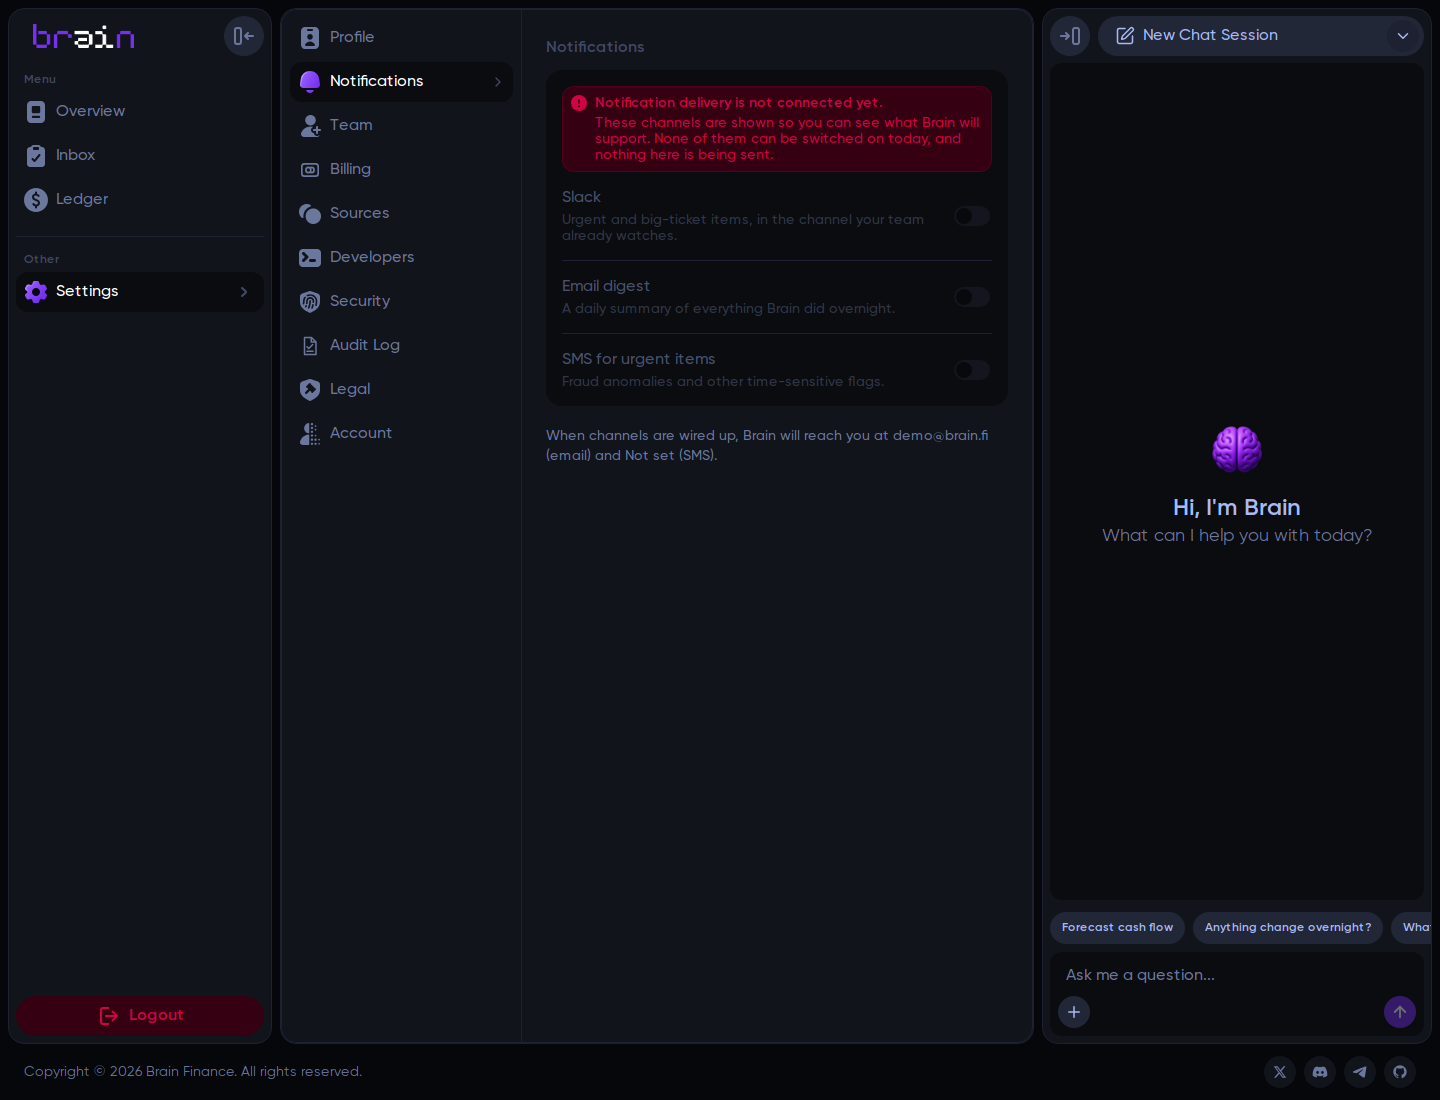
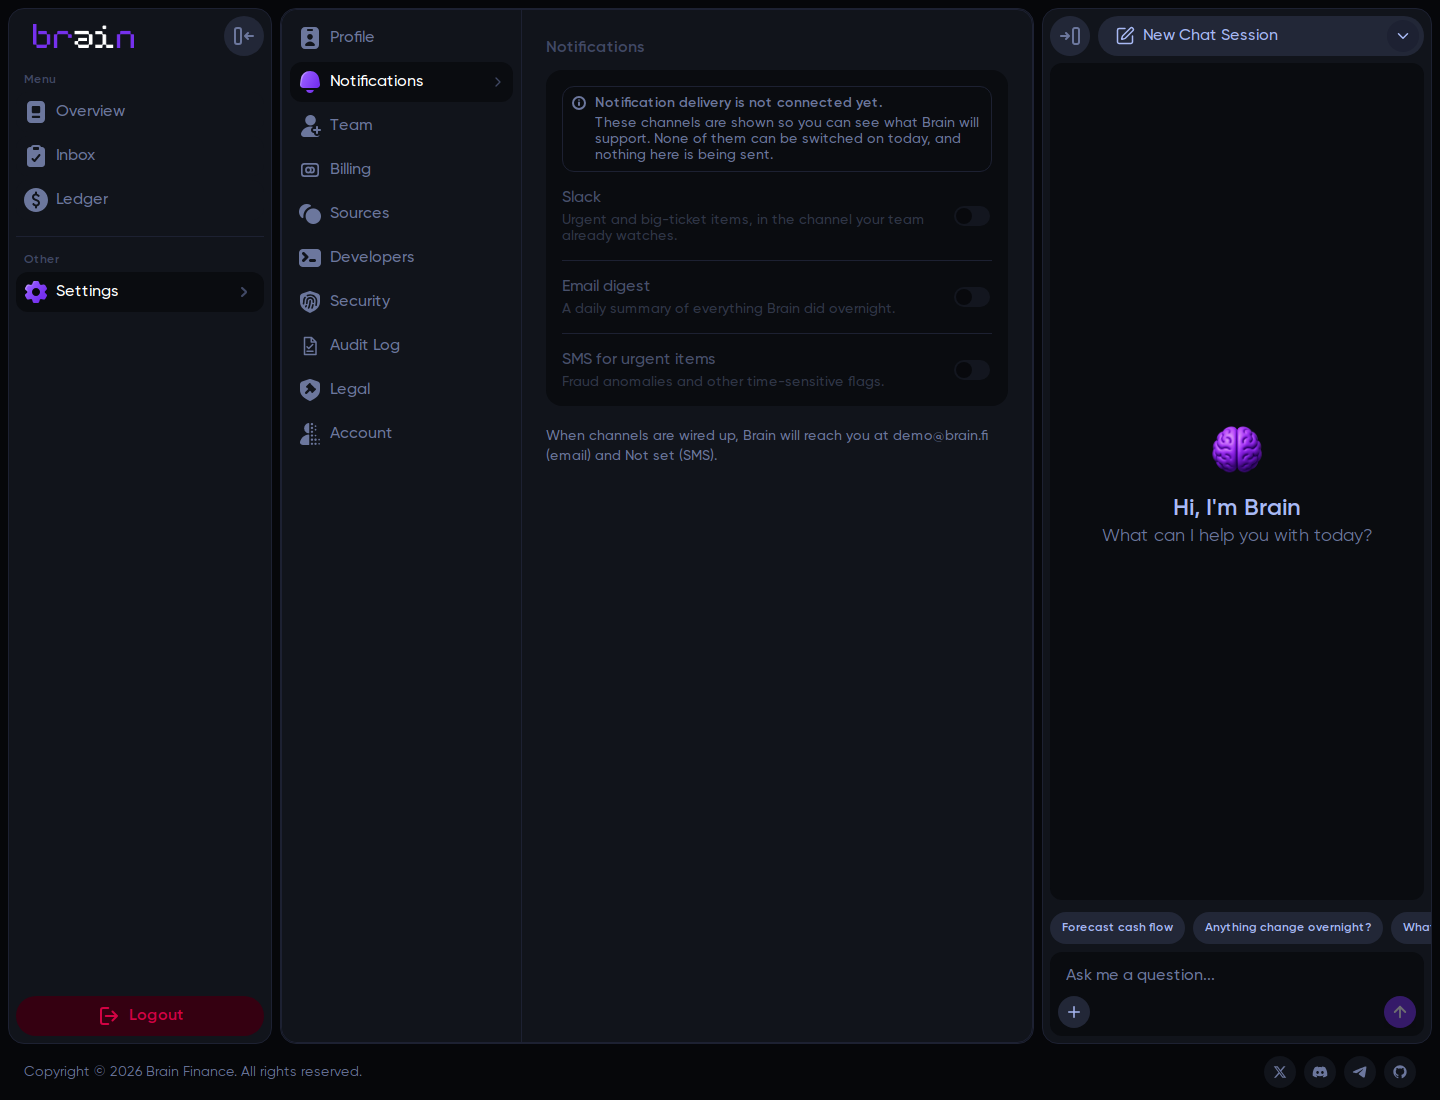
Refactor callout component and update documentation and settings screenshots
Replit-Commit-Author: Agent

Changed region(s): [[0.375, 0.0618, 0.6875, 0.1545]]

diff --git a/client/src/components/Callout.tsx b/client/src/components/Callout.tsx
@@ -65,44 +65,73 @@ export function InfoIcon({
   );
 }
 
-/**
- * The alert frame from Figma.
- *
- * `title` is optional: the Figma node is a single line of text, but two of the
- * existing banners carry a heading over an explanation. Rather than flatten
- * those into one sentence — which would lose the reason the rule paused — the
- * frame stretches to hold both, keeping the node's colours, radius, padding
- * and gap exactly.
- */
-export function AlertCallout({
-  title,
-  children,
-  testId,
-  className = "",
-}: {
+type CalloutProps = {
+  /**
+   * Optional heading. The Figma node is a single line of text, but several real
+   * banners carry a heading over an explanation. Flattening those into one
+   * sentence would lose information — the reason a rule paused, which feed
+   * failed — so the frame stretches to hold both.
+   */
   title?: string;
   children: React.ReactNode;
   testId?: string;
   className?: string;
-}) {
+};
+
+const TONES = {
+  alert: {
+    box: "bg-[#350011] border-[rgba(210,3,68,0.2)]",
+    text: "text-[#d20344]",
+    Icon: () => <AlertIcon />,
+  },
+  muted: {
+    box: "bg-[#0a0c10] border-[#1d2132]",
+    text: "text-[#6c779d]",
+    Icon: () => <InfoIcon color="#6c779d" />,
+  },
+} as const;
+
+function CalloutFrame({
+  tone,
+  title,
+  children,
+  testId,
+  className = "",
+}: CalloutProps & { tone: keyof typeof TONES }) {
+  const { box, text, Icon } = TONES[tone];
   return (
     <div
-      className={`bg-[#350011] border border-[rgba(210,3,68,0.2)] border-solid rounded-[12px] flex items-center p-[8px] w-full ${className}`}
+      className={`${box} border border-solid rounded-[12px] flex items-center p-[8px] w-full ${className}`}
       data-testid={testId}
     >
       <div className="flex flex-1 gap-[8px] items-start min-w-px">
-        <AlertIcon />
+        <Icon />
         <div className="flex flex-1 flex-col justify-center min-w-px gap-[4px]">
           {title && (
-            <p className={`${FONT} font-semibold leading-[16px] text-[#d20344] text-[14px]`}>
-              {title}
-            </p>
+            <p className={`${FONT} font-semibold leading-[16px] ${text} text-[14px]`}>{title}</p>
           )}
-          <div className={`${FONT} font-medium leading-[16px] text-[#d20344] text-[14px] [word-break:break-word]`}>
+          <div className={`${FONT} font-medium leading-[16px] ${text} text-[14px] [word-break:break-word]`}>
             {children}
           </div>
         </div>
       </div>
     </div>
   );
+}
+
+/** Something failed, is incomplete, or needs the user's attention. */
+export function AlertCallout(props: CalloutProps) {
+  return <CalloutFrame tone="alert" {...props} />;
+}
+
+/**
+ * A feature that is not built yet.
+ *
+ * Amber used to cover both this and real warnings, which meant "we haven't
+ * shipped this" and "this broke" looked identical. Crimson would now read as a
+ * failure, so honest not-yet-available notices get the neutral frame instead:
+ * still a callout, but plainly not an error.
+ */
+export function MutedCallout(props: CalloutProps) {
+  return <CalloutFrame tone="muted" {...props} />;
 }

diff --git a/client/src/components/settings/figma/TeamSection.tsx b/client/src/components/settings/figma/TeamSection.tsx
@@ -13,7 +13,7 @@ import { mapApprovalRejection, parseCoreError } from "@/lib/approvalRejections";
 import closeIcon from "@assets/Close_1783293571882.png";
 import memberIcon from "@assets/member_1783635675512.png";
 import arrowButton from "@assets/Button_1783635877872.png";
-import { AlertCallout } from "@/components/Callout";
+import { AlertCallout, MutedCallout } from "@/components/Callout";
 import {
   ROLE_LABELS,
   envelopeLine,
@@ -515,14 +515,14 @@ export default function TeamSection() {
         </div>
 
         <div className="bg-[#0a0c10] rounded-[16px] p-[16px] flex flex-col gap-[16px] w-full">
-          <AlertCallout
+          <MutedCallout
             title="Escalation timers are not active."
             testId="text-escalation-unavailable"
           >
             Brain is propose-only: if the primary approver does not act, nothing ships
             and nothing is escalated. Backup-approver marks are recorded in this
             browser only, so no reminder is sent to anyone today.
-          </AlertCallout>
+          </MutedCallout>
 
           {[
             {

diff --git a/client/src/components/settings/figma/NotificationsSection.tsx b/client/src/components/settings/figma/NotificationsSection.tsx
@@ -1,6 +1,6 @@
 import { useUserContact } from "@/lib/userContact";
 import { Switch } from "./FigmaPrimitives";
-import { AlertCallout } from "@/components/Callout";
+import { AlertCallout, MutedCallout } from "@/components/Callout";
 
 /* Settings → Notifications.
  *
@@ -53,13 +53,13 @@ export default function NotificationsSection() {
 
         <div className="bg-[#0a0c10] rounded-[16px] p-[16px] flex flex-col gap-[16px] w-full">
           {/* Said once, at the top, rather than repeated on every row. */}
-          <AlertCallout
+          <MutedCallout
             title="Notification delivery is not connected yet."
             testId="text-notifications-unavailable"
           >
             These channels are shown so you can see what Brain will support. None of
             them can be switched on today, and nothing here is being sent.
-          </AlertCallout>
+          </MutedCallout>
 
           {CHANNELS.map((c, i) => (
             <div key={c.id} className="flex flex-col gap-[16px]">

diff --git a/.agents/memory/callout-component.md b/.agents/memory/callout-component.md
@@ -35,17 +35,27 @@ scripted regex replacement is safer than a dozen hand edits — but it must also
 merge the new import into any import line the file already has, or the second
 pass overwrites the first.
 
-## Unresolved tension: amber meant two different things
+## Amber meant two different things; the split is now explicit
 
 Amber was doing double duty:
 
 1. "this failed / this data is incomplete" — a genuine warning, and
 2. "this feature is not connected yet" — an honest-unsupported-UI notice.
 
-Collapsing both into the crimson alert frame makes category 2 read as a
-failure. See `honest-unsupported-ui.md`. If a future change reintroduces a
-distinction, put it behind an explicit tone/variant prop rather than letting
-call sites hand-roll a second frame — that is exactly how the drift started.
+Collapsing both into one crimson frame makes category 2 read as a failure, so
+the two are now separate exports: `AlertCallout` (crimson) for real failures
+and things needing attention, `MutedCallout` (grey) for not-yet-available.
+
+**Why:** user's explicit call — "not available yet should be in grey". It also
+matches `honest-unsupported-ui.md`: a limitation should be plainly stated, not
+dressed as an error.
+
+**How to apply:** ask whether the thing described is *broken* or merely *not
+built*. Loading failures, incomplete lists, paused rules, anomalies, form
+errors and security cautions are alerts. "Not connected yet", "not active",
+"propose-only" are muted. Add new tones to the `TONES` map inside the
+component — never hand-roll a second frame at a call site, which is exactly how
+the original drift started.
 
 Related: the frame's Figma node is single-line text only. The optional `title`
 prop exists because several real banners carry a heading over an explanation,
